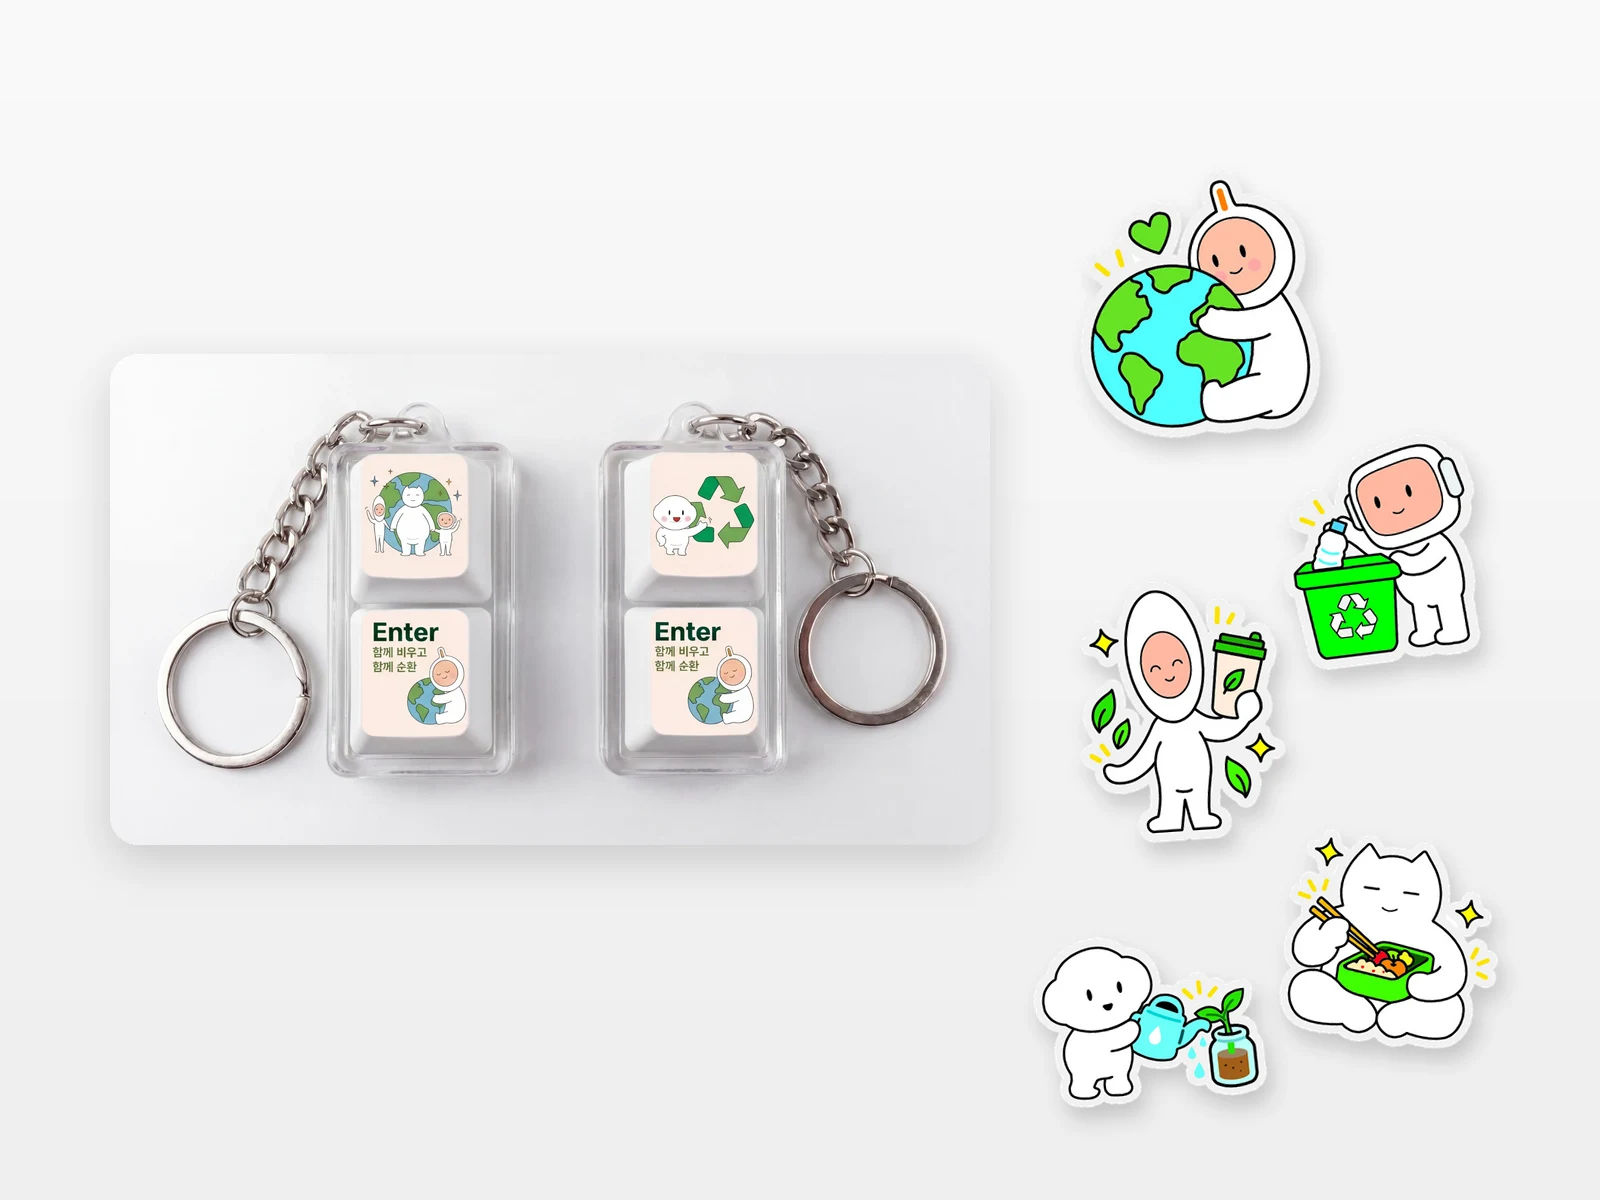
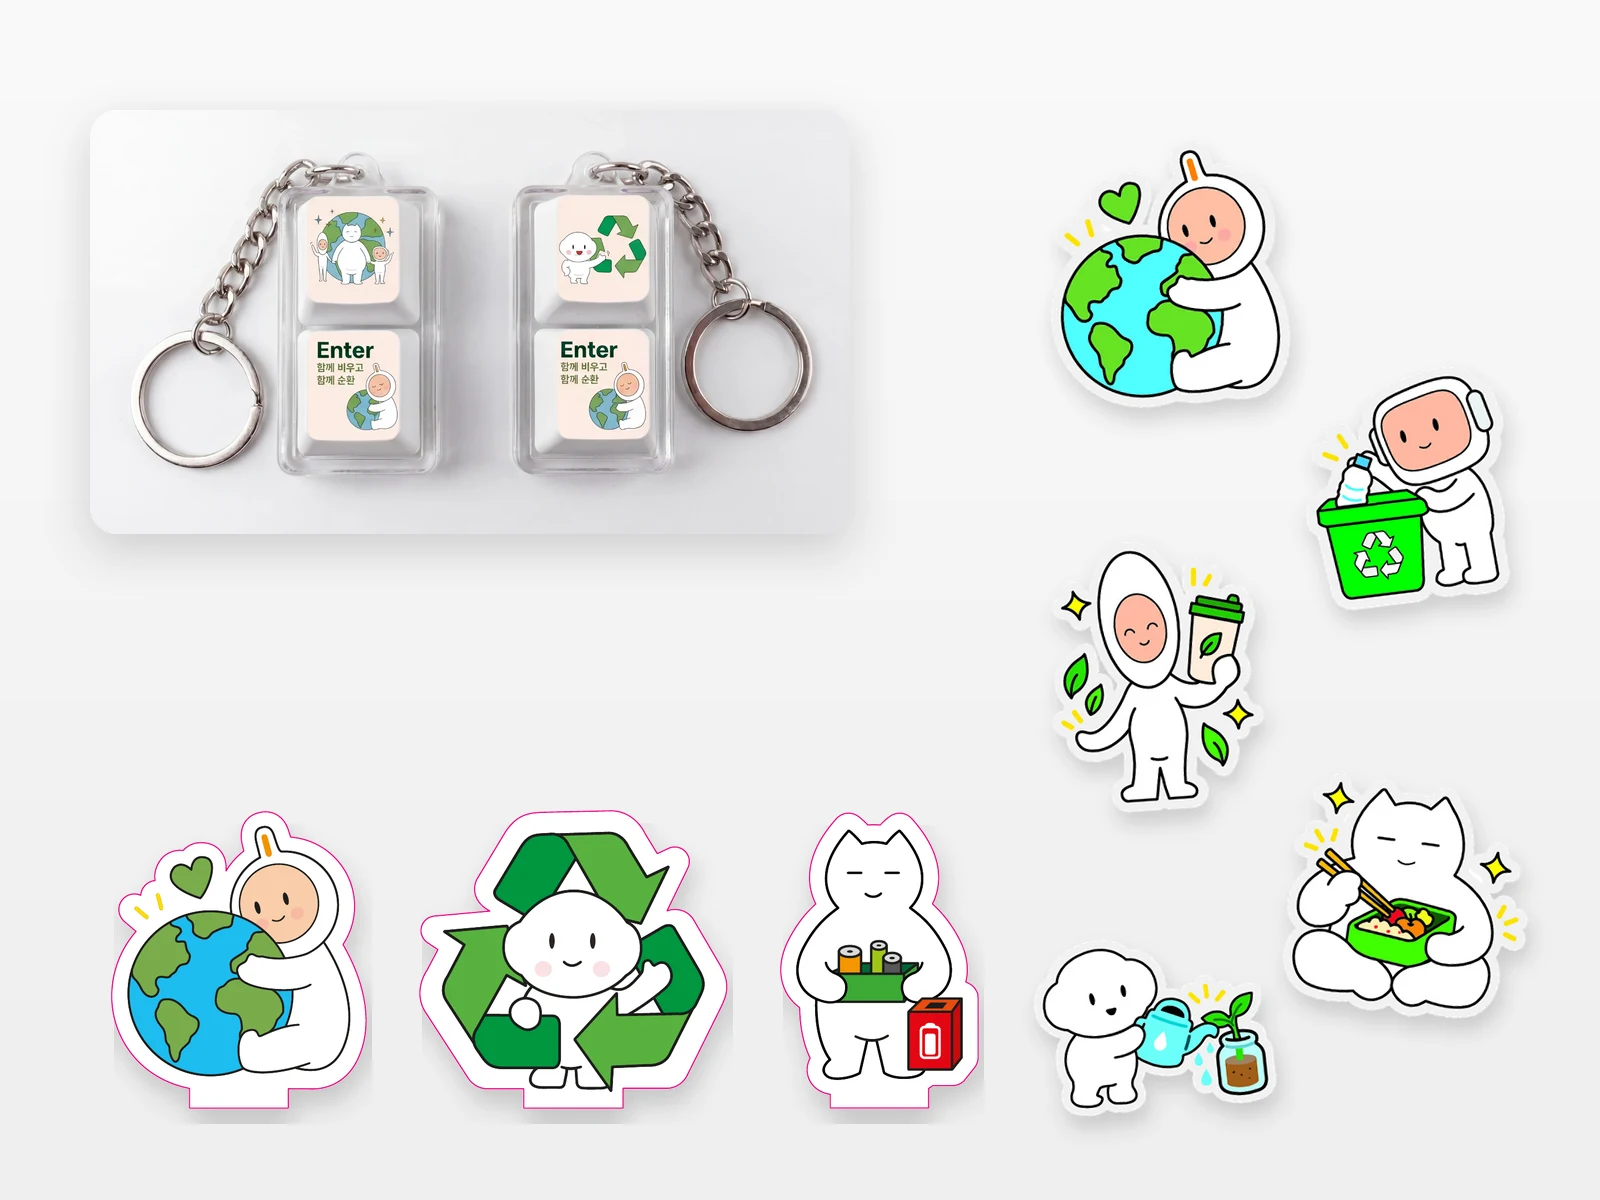
Add acrylic figure artwork (3 types) and refresh ESG goods thumbnail
Claude-Session: https://claude.ai/code/session_01BFCG5mZW9hgWuvcjPHNUrC

Changed region(s): [[0.0625, 0.1233, 0.625, 0.9558], [0.6562, 0.1233, 0.9688, 0.925]]

diff --git a/index.html b/index.html
@@ -1987,6 +1987,15 @@ body.lb-open .cursor{background:#EDEDED}
 .kk-grid.kk-stg .ph{background:#f4f4f4}.kk-grid.kk-stg .kk-stk img{object-fit:contain;padding:8%}
 .kk-grid.kk-stg .ph.empty{background:repeating-linear-gradient(45deg,#f6f6f6 0 12px,#efefef 12px 24px);color:#bbb}
 @media (max-width:760px){ .kk-grid.kk-stg{grid-template-columns:repeat(2,minmax(0,1fr))} }
+.ac-row{display:grid;grid-template-columns:repeat(3,minmax(0,1fr));gap:16px}
+.ac-card{margin:0;border-radius:14px;background:#f4f4f4;box-shadow:0 0 0 1px var(--line);overflow:hidden}
+.ac-stage{position:relative;aspect-ratio:1/1.05;display:grid;grid-template-rows:1fr auto;justify-items:center;align-items:end;padding:8% 14% 10%}
+.ac-fig{all:unset;cursor:zoom-in;display:block;width:var(--w)}.ac-fig img{display:block;width:100%;height:auto;filter:drop-shadow(0 8px 14px rgba(0,0,0,.08))}
+.ac-fig:focus-visible{outline:2px solid var(--g);outline-offset:4px}
+.ac-base{display:block;width:100%;height:auto;margin-top:6%}
+.ac-card figcaption{padding:14px 16px;border-top:1px solid var(--line);background:#fff;display:grid;gap:2px}
+.ac-card small{font-size:10.5px;letter-spacing:.12em;color:var(--g)}.ac-card b{font-size:15px;font-weight:600}.ac-card span{font-size:12.5px;color:var(--ink-2)}
+@media (max-width:760px){ .ac-row{grid-template-columns:minmax(0,1fr)} .ac-stage{aspect-ratio:auto;padding:10% 22%} }
 /* ===== IBC 2026 Booth Graphics ===== */
 #pg-ibc{--o:#FF7B0F;--cream:#FBF3EA}
 .ib-sec{padding-block:clamp(56px,8vw,110px);border-top:1px solid var(--line)}
@@ -3724,6 +3733,9 @@ footer .c{padding-block:56px calc(40px + env(safe-area-inset-bottom,0px));displa
       <div class="kk-fm"><button class="ib-ph kk-fp" type="button" data-kk-lb="s2-stickers" aria-label="자원순환 스티커 12종 — 골라 가는 스티커 존 크게 보기"><img src="assets/keycap/s2-stickers.webp" alt="자원순환 스티커 12종 — 골라 가는 스티커 존" loading="lazy" decoding="async"><span class="tg">Stickers · 12</span></button><button class="ib-ph kk-fp" type="button" data-kk-lb="s2-sticker-hand" aria-label="메버릭 도시락 스티커와 ESG 스티커 크게 보기"><img src="assets/keycap/s2-sticker-hand.webp" alt="메버릭 도시락 스티커와 ESG 스티커" loading="lazy" decoding="async"><span class="tg">Sticker Detail</span></button></div>
     </div>
 
+    <div class="cl-h" style="margin-top:clamp(48px,6vw,80px)"><span class="no" style="color:var(--g)">Acrylic Figure Artwork</span><h3>아크릴 등신대 3종</h3><p>지구를 안아 주는 케이, 자원순환 마크 속 솔루, 폐건전지를 모으는 메버릭을 랜덤 뽑기 굿즈로 만들었습니다. 본체와 "지구를 위한 실천" 문구를 넣은 타원 받침을 끼워 세우는 구조이고, 분홍 선은 아크릴 칼선입니다. 세 캐릭터의 높이를 45mm로 맞춰 나란히 세웠을 때 한 세트로 보이게 했습니다.</p></div>
+    <div class="ac-row"><figure class="ac-card"><div class="ac-stage"><button class="ac-fig" type="button" data-kk-lb="ac1" style="--w:64.3%" aria-label="케이 아크릴 등신대 크게 보기"><img src="assets/keycap/ac1-fig.png" alt="아크릴 등신대 — 지구를 꼭 안아 주는 케이" loading="lazy" decoding="async"></button><img class="ac-base" src="assets/keycap/ac1-base.png" alt="받침대 — 지구를 위한 실천" loading="lazy" decoding="async"></div><figcaption><small>NO.1</small><b>지구를 꼭 안아 주는 케이</b><span>본체 38.7 × 45 mm · 받침 60 × 48 mm</span></figcaption></figure><figure class="ac-card"><div class="ac-stage"><button class="ac-fig" type="button" data-kk-lb="ac2" style="--w:77.4%" aria-label="솔루 아크릴 등신대 크게 보기"><img src="assets/keycap/ac2-fig.png" alt="아크릴 등신대 — 빙글빙글 자원순환 솔루" loading="lazy" decoding="async"></button><img class="ac-base" src="assets/keycap/ac2-base.png" alt="받침대 — 지구를 위한 실천" loading="lazy" decoding="async"></div><figcaption><small>NO.2</small><b>빙글빙글 자원순환 솔루</b><span>본체 46.6 × 45 mm · 받침 60 × 48 mm</span></figcaption></figure><figure class="ac-card"><div class="ac-stage"><button class="ac-fig" type="button" data-kk-lb="ac3" style="--w:50.2%" aria-label="메버릭 아크릴 등신대 크게 보기"><img src="assets/keycap/ac3-fig.png" alt="아크릴 등신대 — 폐건전지 모으는 메버릭" loading="lazy" decoding="async"></button><img class="ac-base" src="assets/keycap/ac3-base.png" alt="받침대 — 지구를 위한 실천" loading="lazy" decoding="async"></div><figcaption><small>NO.3</small><b>폐건전지 모으는 메버릭</b><span>본체 30.2 × 45 mm · 받침 60 × 48 mm</span></figcaption></figure></div>
+    <p class="f3-note">※ 칼선을 포함한 제작 데이터 원본을 같은 배율로 배치했습니다.</p>
     <div class="cl-h" style="margin-top:clamp(48px,6vw,80px)"><span class="no" style="color:var(--g)">Sticker Artwork</span><h3>스티커 시안 10종</h3><p>가온프렌즈 5명이 각자 일상 속 자원순환을 실천하는 장면을 그렸습니다. 캐릭터만 있는 5종과 "줍깅 한 바퀴", "건전지는 따로!"처럼 실천 문구를 더한 5종으로 구성했습니다. 굵은 외곽선과 흰 칼선 여백으로, 노트북·텀블러 어디에 붙여도 캐릭터가 또렷하게 보이도록 했습니다.</p></div>
     <div class="kk-grid kk-stg"><figure><button class="ph kk-stk" type="button" data-kk-lb="st01" aria-label="지구를 안아 주는 케이 스티커 크게 보기"><img src="assets/keycap/st01.png" alt="스티커 — 지구를 안아 주는 케이" loading="lazy" decoding="async"></button><figcaption><b>01</b>지구를 안아 주는 케이</figcaption></figure><figure><button class="ph kk-stk" type="button" data-kk-lb="st02" aria-label="분리배출하는 로비 스티커 크게 보기"><img src="assets/keycap/st02.png" alt="스티커 — 분리배출하는 로비" loading="lazy" decoding="async"></button><figcaption><b>02</b>분리배출하는 로비</figcaption></figure><figure><button class="ph kk-stk" type="button" data-kk-lb="st03" aria-label="다회용 컵 쓰는 파이 스티커 크게 보기"><img src="assets/keycap/st03.png" alt="스티커 — 다회용 컵 쓰는 파이" loading="lazy" decoding="async"></button><figcaption><b>03</b>다회용 컵 쓰는 파이</figcaption></figure><figure><button class="ph kk-stk" type="button" data-kk-lb="st04" aria-label="도시락 싸 온 메버릭 스티커 크게 보기"><img src="assets/keycap/st04.png" alt="스티커 — 도시락 싸 온 메버릭" loading="lazy" decoding="async"></button><figcaption><b>04</b>도시락 싸 온 메버릭</figcaption></figure><figure><button class="ph kk-stk" type="button" data-kk-lb="st05" aria-label="새싹 키우는 솔루 스티커 크게 보기"><img src="assets/keycap/st05.png" alt="스티커 — 새싹 키우는 솔루" loading="lazy" decoding="async"></button><figcaption><b>05</b>새싹 키우는 솔루</figcaption></figure><figure><button class="ph kk-stk" type="button" data-kk-lb="st06" aria-label="줍깅 한 바퀴 — 솔루 스티커 크게 보기"><img src="assets/keycap/st06.png" alt="스티커 — 줍깅 한 바퀴 — 솔루" loading="lazy" decoding="async"></button><figcaption><b>06</b>줍깅 한 바퀴 — 솔루</figcaption></figure><figure><button class="ph kk-stk" type="button" data-kk-lb="st07" aria-label="돌고 도는 자원 — 케이 스티커 크게 보기"><img src="assets/keycap/st07.png" alt="스티커 — 돌고 도는 자원 — 케이" loading="lazy" decoding="async"></button><figcaption><b>07</b>돌고 도는 자원 — 케이</figcaption></figure><figure><button class="ph kk-stk" type="button" data-kk-lb="st08" aria-label="한 땀 더 오래 — 파이 스티커 크게 보기"><img src="assets/keycap/st08.png" alt="스티커 — 한 땀 더 오래 — 파이" loading="lazy" decoding="async"></button><figcaption><b>08</b>한 땀 더 오래 — 파이</figcaption></figure><figure><button class="ph kk-stk" type="button" data-kk-lb="st09" aria-label="고쳐서 오래오래 — 로비 스티커 크게 보기"><img src="assets/keycap/st09.png" alt="스티커 — 고쳐서 오래오래 — 로비" loading="lazy" decoding="async"></button><figcaption><b>09</b>고쳐서 오래오래 — 로비</figcaption></figure><figure><button class="ph kk-stk" type="button" data-kk-lb="st10" aria-label="건전지는 따로! — 메버릭 스티커 크게 보기"><img src="assets/keycap/st10.png" alt="스티커 — 건전지는 따로! — 메버릭" loading="lazy" decoding="async"></button><figcaption><b>10</b>건전지는 따로! — 메버릭</figcaption></figure></div>
   </div></div></section>
@@ -4031,7 +4043,7 @@ const WORKS=[
   {title:'KAON Friends 3D Guidelines', page:'kf3d', img:'assets/kf3d/thumb.webp?v=2', sub:'KAON GROUP', tag:'Character IP · Guideline', period:'2026.11', cat:['brand','ai'], scene:3,
    kr:'가온프렌즈 3D 캐릭터 아이덴티티 매뉴얼과 AI 제작 기준 (41p)', role:'캐릭터 가이드라인 기획·디자인', client:'가온그룹', tools:'Illustrator, Generative AI',
    kpis:[], ch:'', ap:'', out:''},
-  {title:'KAON ESG Campaign Goods', page:'keycap', img:'assets/keycap/thumb.webp?v=4', sub:'KAON GROUP', tag:'Campaign · Character Goods', period:'2026.03 — 10', cat:['brand'], scene:3,
+  {title:'KAON ESG Campaign Goods', page:'keycap', img:'assets/keycap/thumb.webp?v=5', sub:'KAON GROUP', tag:'Campaign · Character Goods', period:'2026.03 — 10', cat:['brand'], scene:3,
    kr:'ESG 자원순환 캠페인 1·2차 — 캠페인 비주얼과 키캡 키링·아크릴 피규어·스티커 굿즈', role:'캠페인 비주얼 · 굿즈 기획 · 아트워크 디자인', client:'가온그룹 ESG팀', tools:'Illustrator',
    kpis:[], ch:'', ap:'', out:''},
   {title:'KAON Friends 2027 Calendar', page:'calendar', img:'assets/calendar/thumb.webp?v=7', sub:'KAON GROUP', tag:'AI Artwork · Calendar', period:'2026', cat:['ai','brand','content'], scene:3,
@@ -4677,7 +4689,7 @@ addEventListener('keydown',e=>{ if(lb.hidden) return; if(e.key==='Escape'){e.sto
 })();
 
 /* ---------- KAON Friends Keycaps ---------- */
-(()=>{ const pg=document.getElementById('pg-keycap'); if(!pg) return; const E=[{"k": "m1", "src": "assets/keycap/m1.webp", "alt": "키캡 키링 정면 — 지구와 함께 · 재활용 마크 세트", "cap": "Product — Product · Front", "g": "keycap"}, {"k": "m2", "src": "assets/keycap/m2.webp", "alt": "키캡 키링 — 흰 키캡 버전", "cap": "Product — White Keycap", "g": "keycap"}, {"k": "m3", "src": "assets/keycap/m3.webp", "alt": "키캡 키링 — 스냅 고리 버전", "cap": "Product — Snap Hook", "g": "keycap"}, {"k": "m4", "src": "assets/keycap/m4.webp", "alt": "키캡 키링 — 측면 클리커 버전", "cap": "Product — Clicker", "g": "keycap"}, {"k": "k1", "src": "assets/keycap/k1.webp", "alt": "Enter · 재활용 마크", "cap": "Keycap 01 — Enter · 재활용 마크", "g": "keycap"}, {"k": "k2", "src": "assets/keycap/k2.webp", "alt": "Enter · 분리수거함", "cap": "Keycap 02 — Enter · 분리수거함", "g": "keycap"}, {"k": "k3", "src": "assets/keycap/k3.webp", "alt": "Enter · 지구 안기", "cap": "Keycap 03 — Enter · 지구 안기", "g": "keycap"}, {"k": "k4", "src": "assets/keycap/k4.webp", "alt": "재활용 마크", "cap": "Keycap 04 — 재활용 마크", "g": "keycap"}, {"k": "k5", "src": "assets/keycap/k5.webp", "alt": "분리배출", "cap": "Keycap 05 — 분리배출", "g": "keycap"}, {"k": "k6", "src": "assets/keycap/k6.webp", "alt": "지구와 함께", "cap": "Keycap 06 — 지구와 함께", "g": "keycap"}, {"k": "c4", "src": "assets/keycap/c4.webp", "alt": "캠페인 메인 사이니지 — 비우고, 모으고, 함께 순환", "cap": "Campaign Field — Main Signage", "g": "keycap"}, {"k": "c1", "src": "assets/keycap/c1.webp", "alt": "1층 로비 캠페인 존 — 배너와 전자제품 수거함", "cap": "Campaign Field — Campaign Zone", "g": "keycap"}, {"k": "c3", "src": "assets/keycap/c3.webp", "alt": "집중 배출일 현장 — 로비 수거 부스", "cap": "Campaign Field — Collection Day", "g": "keycap"}, {"k": "c2", "src": "assets/keycap/c2.webp", "alt": "참여 임직원에게 키캡 키링 배포", "cap": "Campaign Field — Goods Hand-out", "g": "keycap"}, {"k": "s2-zone", "src": "assets/keycap/s2-zone.webp", "alt": "시즌 2 캠페인 존 — 3D 가온프렌즈 사이니지와 배너·수거함", "cap": "Season 2 — Campaign Zone · S2", "g": "keycap"}, {"k": "s2-acrylic", "src": "assets/keycap/s2-acrylic.webp", "alt": "아크릴 피규어 3종 — 케이·솔루·메버릭과 키캡 키링", "cap": "Season 2 — Acrylic Figures", "g": "keycap"}, {"k": "s2-acrylic-table", "src": "assets/keycap/s2-acrylic-table.webp", "alt": "랜덤 굿즈 뽑기 테이블과 캐릭터별 안내 카드", "cap": "Season 2 — Random Goods", "g": "keycap"}, {"k": "s2-stickers", "src": "assets/keycap/s2-stickers.webp", "alt": "자원순환 스티커 12종 — 골라 가는 스티커 존", "cap": "Season 2 — Stickers · 12", "g": "keycap"}, {"k": "s2-sticker-hand", "src": "assets/keycap/s2-sticker-hand.webp", "alt": "메버릭 도시락 스티커와 ESG 스티커", "cap": "Season 2 — Sticker Detail", "g": "keycap"}, {"k": "st01", "src": "assets/keycap/st01.png", "alt": "지구를 안아 주는 케이", "cap": "Sticker 01 — 지구를 안아 주는 케이", "g": "keycap"}, {"k": "st02", "src": "assets/keycap/st02.png", "alt": "분리배출하는 로비", "cap": "Sticker 02 — 분리배출하는 로비", "g": "keycap"}, {"k": "st03", "src": "assets/keycap/st03.png", "alt": "다회용 컵 쓰는 파이", "cap": "Sticker 03 — 다회용 컵 쓰는 파이", "g": "keycap"}, {"k": "st04", "src": "assets/keycap/st04.png", "alt": "도시락 싸 온 메버릭", "cap": "Sticker 04 — 도시락 싸 온 메버릭", "g": "keycap"}, {"k": "st05", "src": "assets/keycap/st05.png", "alt": "새싹 키우는 솔루", "cap": "Sticker 05 — 새싹 키우는 솔루", "g": "keycap"}, {"k": "st06", "src": "assets/keycap/st06.png", "alt": "줍깅 한 바퀴 — 솔루", "cap": "Sticker 06 — 줍깅 한 바퀴 — 솔루", "g": "keycap"}, {"k": "st07", "src": "assets/keycap/st07.png", "alt": "돌고 도는 자원 — 케이", "cap": "Sticker 07 — 돌고 도는 자원 — 케이", "g": "keycap"}, {"k": "st08", "src": "assets/keycap/st08.png", "alt": "한 땀 더 오래 — 파이", "cap": "Sticker 08 — 한 땀 더 오래 — 파이", "g": "keycap"}, {"k": "st09", "src": "assets/keycap/st09.png", "alt": "고쳐서 오래오래 — 로비", "cap": "Sticker 09 — 고쳐서 오래오래 — 로비", "g": "keycap"}, {"k": "st10", "src": "assets/keycap/st10.png", "alt": "건전지는 따로! — 메버릭", "cap": "Sticker 10 — 건전지는 따로! — 메버릭", "g": "keycap"}]; const base=LB.length; E.forEach(e=>LB.push({src:e.src,alt:e.alt,cap:e.cap,g:e.g}));
+(()=>{ const pg=document.getElementById('pg-keycap'); if(!pg) return; const E=[{"k": "m1", "src": "assets/keycap/m1.webp", "alt": "키캡 키링 정면 — 지구와 함께 · 재활용 마크 세트", "cap": "Product — Product · Front", "g": "keycap"}, {"k": "m2", "src": "assets/keycap/m2.webp", "alt": "키캡 키링 — 흰 키캡 버전", "cap": "Product — White Keycap", "g": "keycap"}, {"k": "m3", "src": "assets/keycap/m3.webp", "alt": "키캡 키링 — 스냅 고리 버전", "cap": "Product — Snap Hook", "g": "keycap"}, {"k": "m4", "src": "assets/keycap/m4.webp", "alt": "키캡 키링 — 측면 클리커 버전", "cap": "Product — Clicker", "g": "keycap"}, {"k": "k1", "src": "assets/keycap/k1.webp", "alt": "Enter · 재활용 마크", "cap": "Keycap 01 — Enter · 재활용 마크", "g": "keycap"}, {"k": "k2", "src": "assets/keycap/k2.webp", "alt": "Enter · 분리수거함", "cap": "Keycap 02 — Enter · 분리수거함", "g": "keycap"}, {"k": "k3", "src": "assets/keycap/k3.webp", "alt": "Enter · 지구 안기", "cap": "Keycap 03 — Enter · 지구 안기", "g": "keycap"}, {"k": "k4", "src": "assets/keycap/k4.webp", "alt": "재활용 마크", "cap": "Keycap 04 — 재활용 마크", "g": "keycap"}, {"k": "k5", "src": "assets/keycap/k5.webp", "alt": "분리배출", "cap": "Keycap 05 — 분리배출", "g": "keycap"}, {"k": "k6", "src": "assets/keycap/k6.webp", "alt": "지구와 함께", "cap": "Keycap 06 — 지구와 함께", "g": "keycap"}, {"k": "c4", "src": "assets/keycap/c4.webp", "alt": "캠페인 메인 사이니지 — 비우고, 모으고, 함께 순환", "cap": "Campaign Field — Main Signage", "g": "keycap"}, {"k": "c1", "src": "assets/keycap/c1.webp", "alt": "1층 로비 캠페인 존 — 배너와 전자제품 수거함", "cap": "Campaign Field — Campaign Zone", "g": "keycap"}, {"k": "c3", "src": "assets/keycap/c3.webp", "alt": "집중 배출일 현장 — 로비 수거 부스", "cap": "Campaign Field — Collection Day", "g": "keycap"}, {"k": "c2", "src": "assets/keycap/c2.webp", "alt": "참여 임직원에게 키캡 키링 배포", "cap": "Campaign Field — Goods Hand-out", "g": "keycap"}, {"k": "s2-zone", "src": "assets/keycap/s2-zone.webp", "alt": "시즌 2 캠페인 존 — 3D 가온프렌즈 사이니지와 배너·수거함", "cap": "Season 2 — Campaign Zone · S2", "g": "keycap"}, {"k": "s2-acrylic", "src": "assets/keycap/s2-acrylic.webp", "alt": "아크릴 피규어 3종 — 케이·솔루·메버릭과 키캡 키링", "cap": "Season 2 — Acrylic Figures", "g": "keycap"}, {"k": "s2-acrylic-table", "src": "assets/keycap/s2-acrylic-table.webp", "alt": "랜덤 굿즈 뽑기 테이블과 캐릭터별 안내 카드", "cap": "Season 2 — Random Goods", "g": "keycap"}, {"k": "s2-stickers", "src": "assets/keycap/s2-stickers.webp", "alt": "자원순환 스티커 12종 — 골라 가는 스티커 존", "cap": "Season 2 — Stickers · 12", "g": "keycap"}, {"k": "s2-sticker-hand", "src": "assets/keycap/s2-sticker-hand.webp", "alt": "메버릭 도시락 스티커와 ESG 스티커", "cap": "Season 2 — Sticker Detail", "g": "keycap"}, {"k": "st01", "src": "assets/keycap/st01.png", "alt": "지구를 안아 주는 케이", "cap": "Sticker 01 — 지구를 안아 주는 케이", "g": "keycap"}, {"k": "st02", "src": "assets/keycap/st02.png", "alt": "분리배출하는 로비", "cap": "Sticker 02 — 분리배출하는 로비", "g": "keycap"}, {"k": "st03", "src": "assets/keycap/st03.png", "alt": "다회용 컵 쓰는 파이", "cap": "Sticker 03 — 다회용 컵 쓰는 파이", "g": "keycap"}, {"k": "st04", "src": "assets/keycap/st04.png", "alt": "도시락 싸 온 메버릭", "cap": "Sticker 04 — 도시락 싸 온 메버릭", "g": "keycap"}, {"k": "st05", "src": "assets/keycap/st05.png", "alt": "새싹 키우는 솔루", "cap": "Sticker 05 — 새싹 키우는 솔루", "g": "keycap"}, {"k": "st06", "src": "assets/keycap/st06.png", "alt": "줍깅 한 바퀴 — 솔루", "cap": "Sticker 06 — 줍깅 한 바퀴 — 솔루", "g": "keycap"}, {"k": "st07", "src": "assets/keycap/st07.png", "alt": "돌고 도는 자원 — 케이", "cap": "Sticker 07 — 돌고 도는 자원 — 케이", "g": "keycap"}, {"k": "st08", "src": "assets/keycap/st08.png", "alt": "한 땀 더 오래 — 파이", "cap": "Sticker 08 — 한 땀 더 오래 — 파이", "g": "keycap"}, {"k": "st09", "src": "assets/keycap/st09.png", "alt": "고쳐서 오래오래 — 로비", "cap": "Sticker 09 — 고쳐서 오래오래 — 로비", "g": "keycap"}, {"k": "st10", "src": "assets/keycap/st10.png", "alt": "건전지는 따로! — 메버릭", "cap": "Sticker 10 — 건전지는 따로! — 메버릭", "g": "keycap"}, {"k": "ac1", "src": "assets/keycap/ac1-fig.png", "alt": "지구를 꼭 안아 주는 케이", "cap": "Acrylic Figure NO.1 — 지구를 꼭 안아 주는 케이", "g": "keycap"}, {"k": "ac2", "src": "assets/keycap/ac2-fig.png", "alt": "빙글빙글 자원순환 솔루", "cap": "Acrylic Figure NO.2 — 빙글빙글 자원순환 솔루", "g": "keycap"}, {"k": "ac3", "src": "assets/keycap/ac3-fig.png", "alt": "폐건전지 모으는 메버릭", "cap": "Acrylic Figure NO.3 — 폐건전지 모으는 메버릭", "g": "keycap"}]; const base=LB.length; E.forEach(e=>LB.push({src:e.src,alt:e.alt,cap:e.cap,g:e.g}));
   pg.querySelectorAll('[data-kk-lb]').forEach(b=>b.addEventListener('click',()=>{ const k=E.findIndex(e=>e.k===b.dataset.kkLb); if(k>=0) lbOpen(base+k); }));
 })();
 
